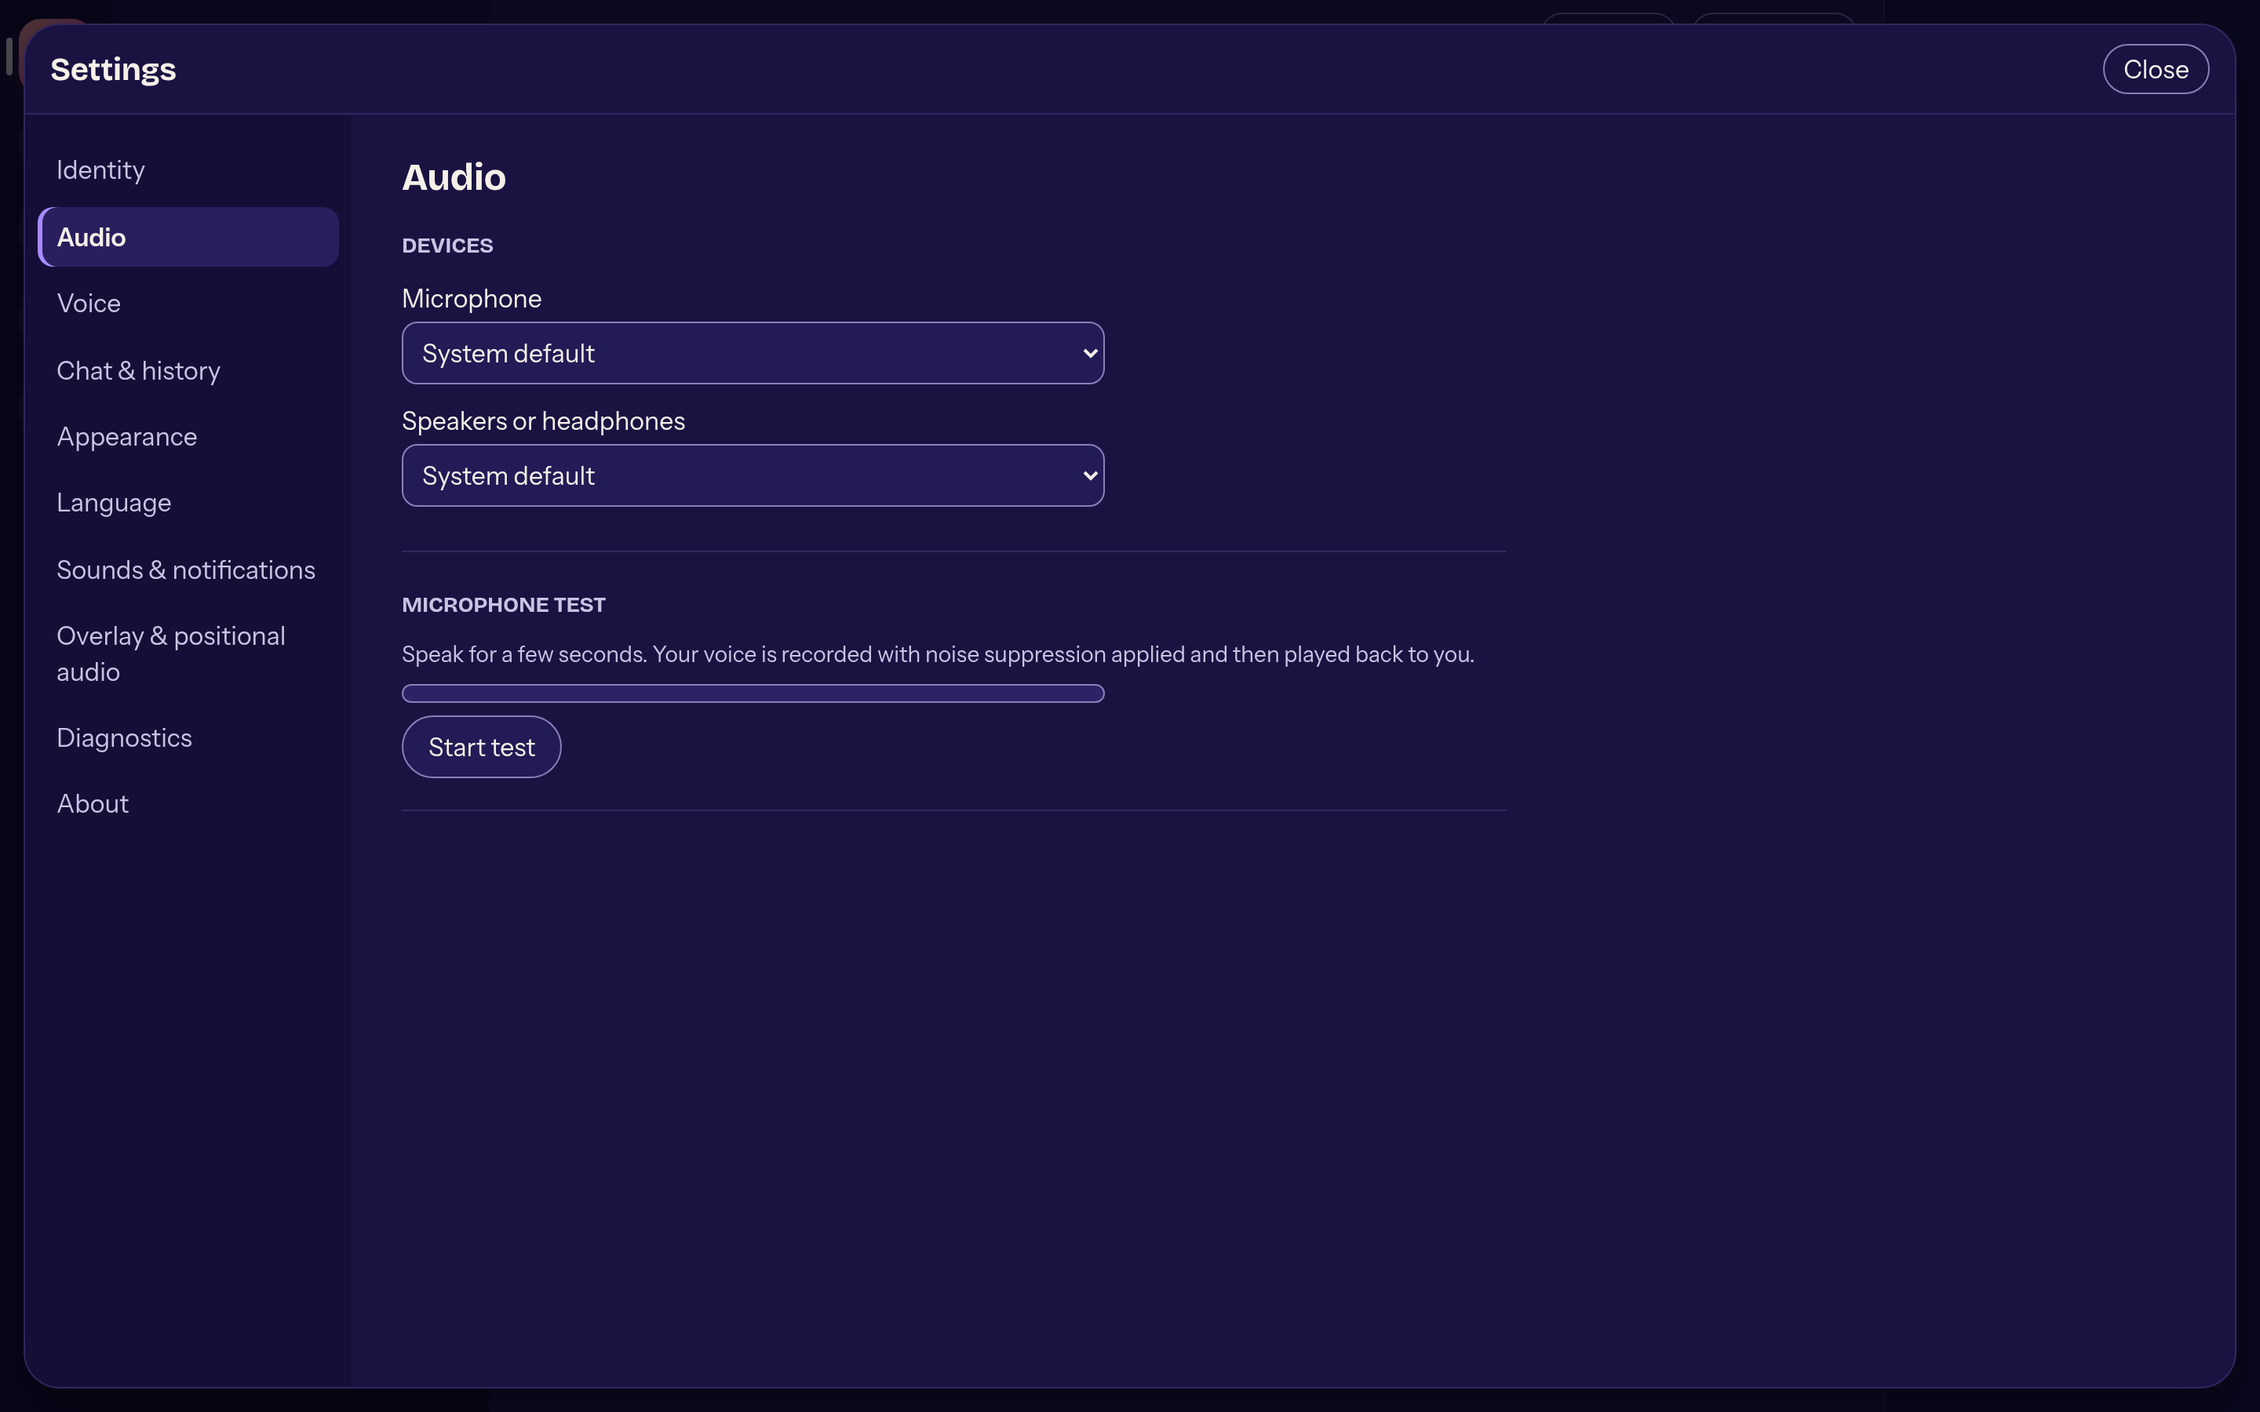
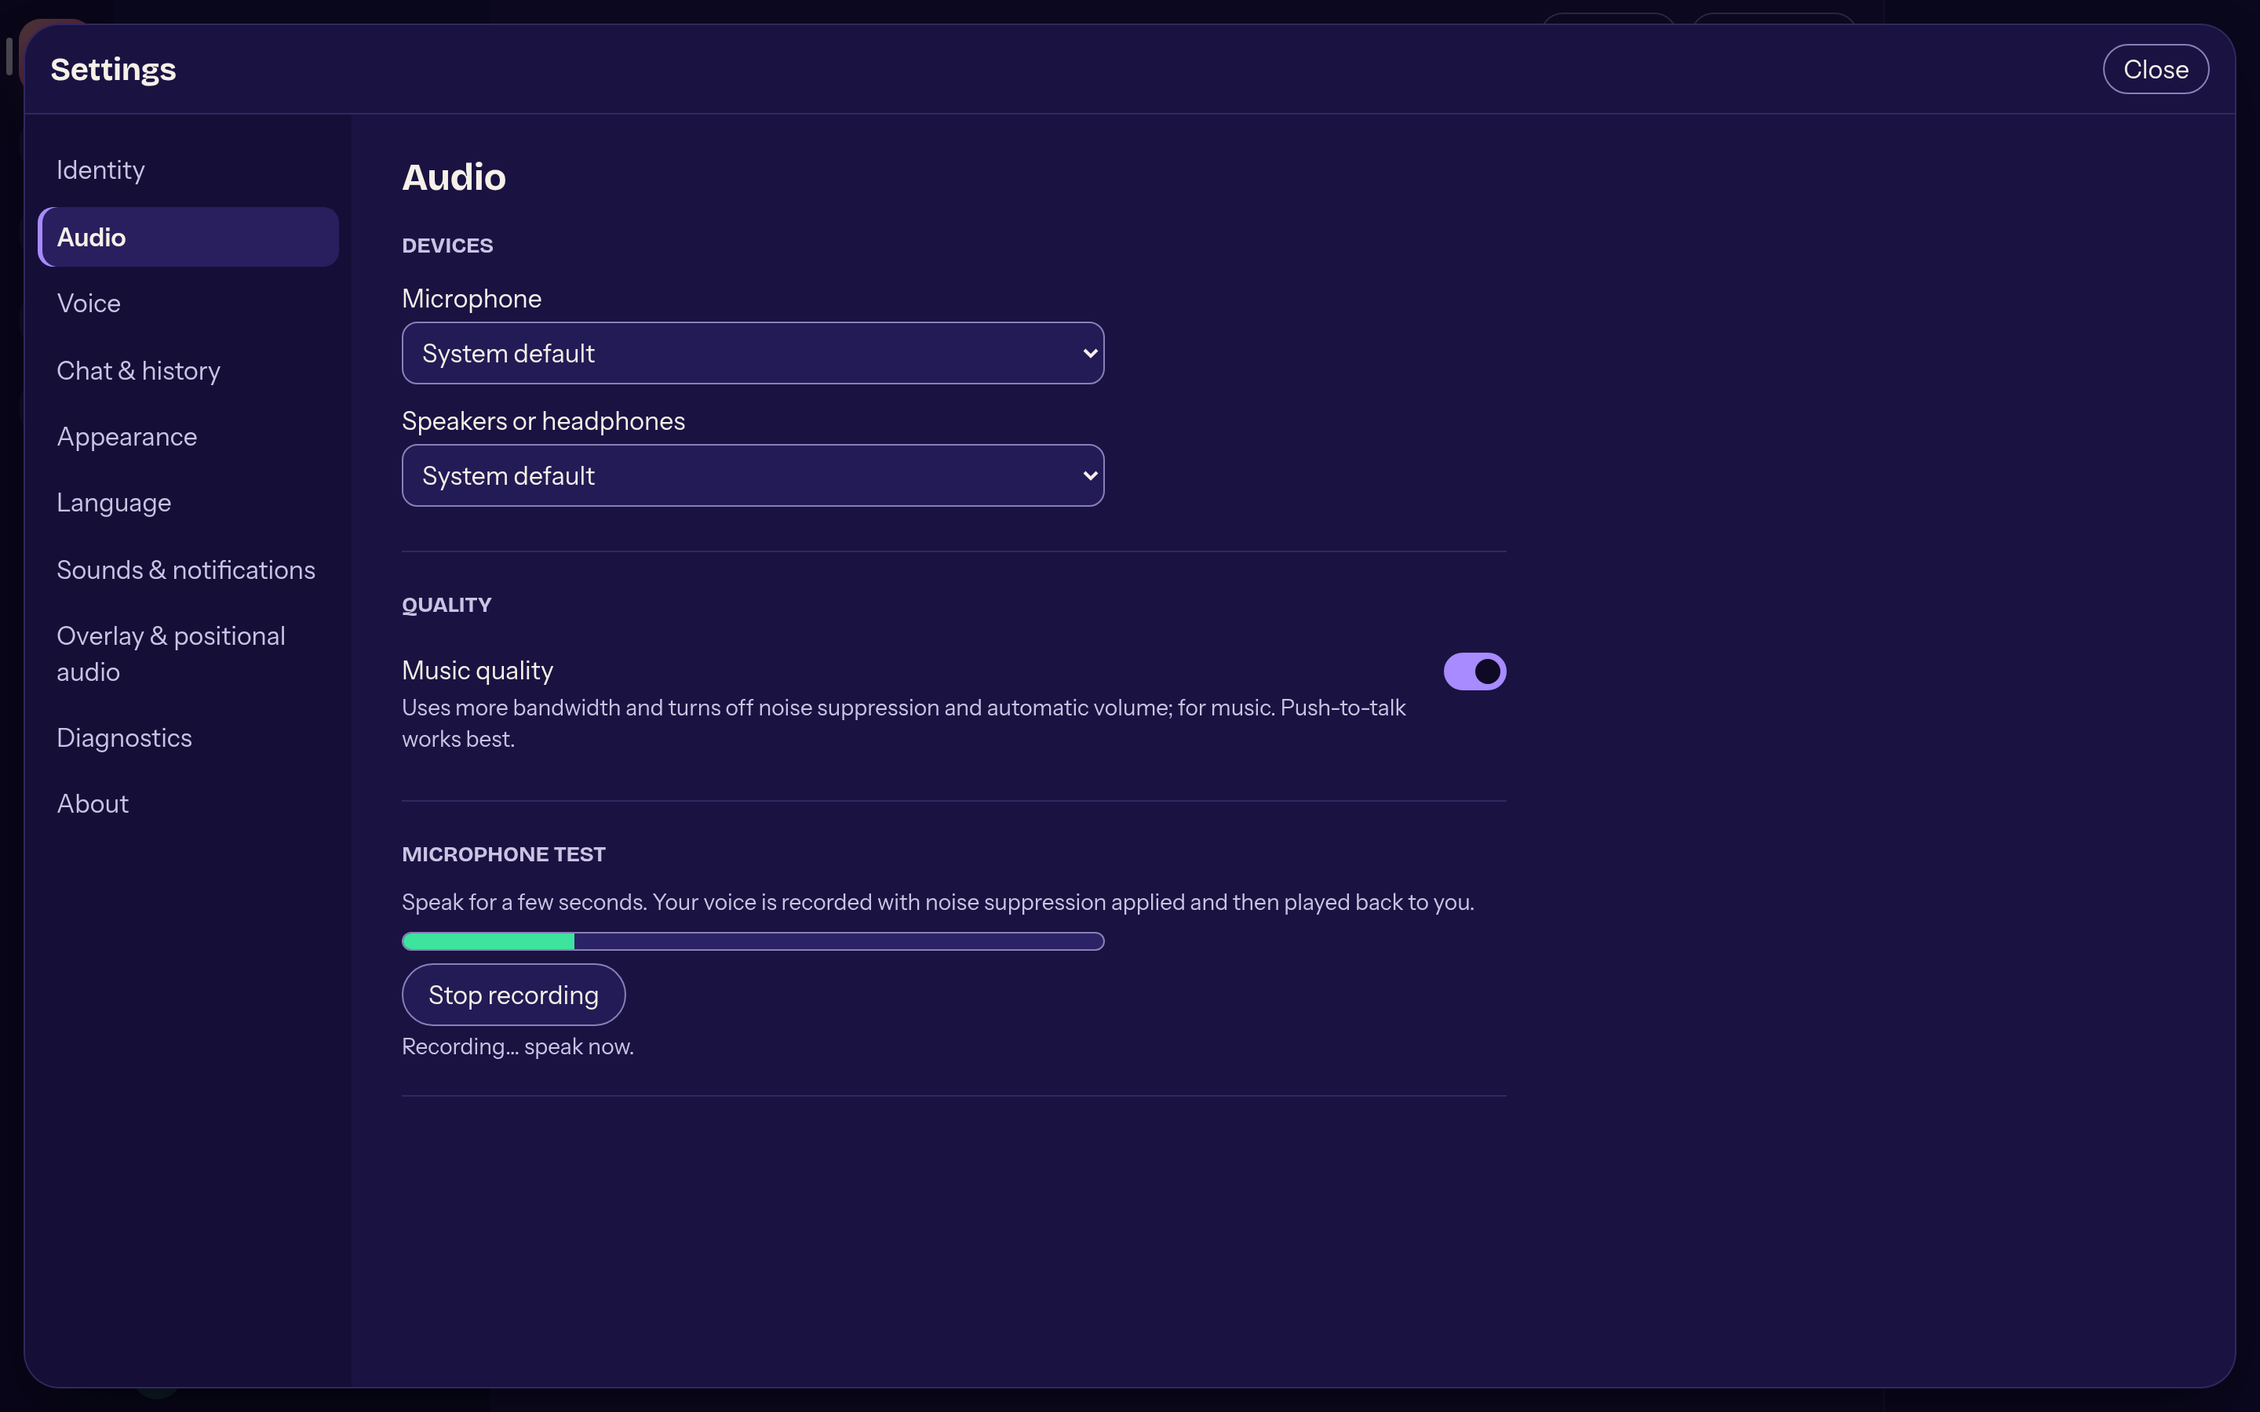
feat: screenshots for every feature on the features page

diff --git a/src/lib/features.ts b/src/lib/features.ts
@@ -118,7 +118,7 @@ export const featuresPage: Record<Lang, FeaturesPage> = {
             id: "rechtsklick",
             title: "Rechtsklick auf Leute",
             body: "Profil ansehen, nur für dich stummschalten, Lautstärke von 0 bis 200 % oder eine private Nachricht schreiben. Mumcord merkt sich das pro Person.",
-            shot: "context-menu",
+            shot: "person-menu",
             alt: "Kontextmenü einer Person mit Lautstärkeregler",
           },
         ],
@@ -143,20 +143,66 @@ export const featuresPage: Record<Lang, FeaturesPage> = {
           },
           {
             id: "vorschauen",
-            title: "Links, Videos und Bilder im Chat",
-            body: "Link-Vorschauen, Karten für YouTube, Twitch und Spotify, die erst beim Klick laden, und externe Bilder direkt in der Nachricht. Ein Klick öffnet den Bildbetrachter mit Zoom. Alles abschaltbar, nie von Adressen im lokalen Netz.",
+            title: "Link-Vorschauen",
+            body: "Links bekommen eine Karte mit Titel, Beschreibung und Bild. Mumcord lädt sie selbst, nie von Adressen im lokalen Netz; jede Karte lässt sich wegklicken, und die Funktion ist im Wizard und in den Einstellungen abschaltbar.",
+            shot: "chat-link-preview",
+            alt: "Chat mit einer Link-Vorschau",
+            since: "0.2.0",
+          },
+          {
+            id: "videos",
+            title: "YouTube und Twitch",
+            body: "Video-Links werden zu einer Karte mit Vorschaubild. Der Player lädt erst, wenn du auf Play klickst.",
+            shot: "chat-youtube",
+            alt: "Chat mit einer YouTube-Karte",
+            since: "0.2.0",
+          },
+          {
+            id: "spotify",
+            title: "Spotify",
+            body: "Auch Spotify-Links bekommen eine Karte mit Cover, Titel und Künstler, der Player kommt erst beim Klick.",
+            shot: "chat-spotify",
+            alt: "Chat mit einer Spotify-Karte",
+            since: "0.2.0",
+          },
+          {
+            id: "bilder",
+            title: "Bilder und GIFs im Chat",
+            body: "Externe Bilder und Bildlinks erscheinen direkt in der Nachricht, GIFs von Giphy und Tenor spielen ab und zeigen ihre Quelle.",
+            shot: "chat-images",
+            alt: "Chat mit einem Bild und einem GIF",
+            since: "0.2.0",
+          },
+          {
+            id: "bildbetrachter",
+            title: "Bildbetrachter",
+            body: "Ein Klick auf ein Bild öffnet es groß: zoomen mit Mausrad oder Tasten, verschieben, mit den Pfeiltasten durch alle Bilder des Chats und „Bild speichern“.",
+            shot: "image-viewer",
+            alt: "Bildbetrachter mit Zoom-Leiste",
             since: "0.2.0",
           },
           {
             id: "erwaehnungen",
-            title: "@Erwähnungen, Code und Formatierung",
-            body: "@ vervollständigt Namen, Erwähnungen werden hervorgehoben und haben einen eigenen Ton. Code-Blöcke mit Syntax-Hervorhebung, eine Formatierungsleiste und Kürzel wie Strg+B.",
+            title: "@Erwähnungen",
+            body: "Tipp @ und Mumcord schlägt Namen vor. Erwähnungen werden hervorgehoben, benachrichtigen auch in stillen Kanälen und haben einen eigenen Ton.",
+            shot: "mention-autocomplete",
+            alt: "Eingabefeld mit Namensvorschlag nach @",
+            since: "0.2.0",
+          },
+          {
+            id: "code",
+            title: "Code und Formatierung",
+            body: "Code-Blöcke mit Syntax-Hervorhebung, eine Formatierungsleiste über dem Eingabefeld und Kürzel wie Strg+B, Strg+I oder Strg+E.",
+            shot: "chat-code-toolbar",
+            alt: "Chat mit hervorgehobenem Code und Formatierungsleiste",
             since: "0.2.0",
           },
           {
             id: "gifs",
             title: "GIF-Favoriten",
-            body: "Links zu Giphy und Tenor spielen direkt ab. Per Rechtsklick als Favorit speichern und über den GIF-Knopf wieder senden.",
+            body: "Jedes GIF im Chat per Rechtsklick als Favorit speichern und über den GIF-Knopf wieder senden. Eine GIF-Suche gibt es bewusst nicht: Dafür müsste ein API-Schlüssel in die App.",
+            shot: "gif-picker",
+            alt: "Auswahl der GIF-Favoriten",
             since: "0.2.0",
           },
           {
@@ -165,6 +211,14 @@ export const featuresPage: Record<Lang, FeaturesPage> = {
             body: "Neue Nachrichten als Pop-up in der App, als Systembenachrichtigung, beides oder gar nicht. Dazu kurze, leise Töne pro Ereignis.",
             shot: "notification-toast",
             alt: "Pop-up einer neuen Nachricht in der App",
+          },
+          {
+            id: "aufraeumen",
+            title: "Räumt selbst auf",
+            body: "Vorschauen und Bilder werden nach einstellbaren Tagen gelöscht, auf Wunsch auch alte Chatverläufe. Der Verlauf liegt nur auf deinem Rechner und lässt sich pro Server abschalten.",
+            shot: "settings-04-chat-history-dark",
+            alt: "Einstellungen, Bereich Chat und Verlauf",
+            since: "0.2.0",
           },
         ],
       },
@@ -175,27 +229,39 @@ export const featuresPage: Record<Lang, FeaturesPage> = {
           {
             id: "push-to-talk",
             title: "Push-to-Talk überall",
-            body: "Tasten und Maustasten, auch wenn ein Spiel im Vordergrund läuft. Unter Wayland über das Shortcut-Portal oder im Kompatibilitätsmodus wie bei TeamSpeak. Oder Sprachaktivierung, auf Wunsch mit eigener Schwelle.",
+            body: "Tasten und Maustasten, auch wenn ein Spiel im Vordergrund läuft. Unter Wayland über das Shortcut-Portal oder im Kompatibilitätsmodus wie bei TeamSpeak.",
+            shot: "wizard-3-talk-mode",
+            alt: "Einrichtungsassistent, Schritt Sprechmodus",
+          },
+          {
+            id: "schwelle",
+            title: "Sprachaktivierung mit eigener Schwelle",
+            body: "Automatisch oder von Hand: Ein Regler über der Live-Pegelanzeige legt fest, ab wann Mumcord sendet. Eine kurze Haltezeit schneidet keine Wortenden ab.",
             shot: "settings-03-voice-dark",
-            alt: "Einstellungen, Bereich Sprache mit Push-to-Talk",
+            alt: "Einstellungen, Bereich Sprache mit manueller Schwelle",
+            since: "0.2.0",
           },
           {
             id: "klang",
             title: "Klarer Klang von Haus aus",
             body: "KI-Rauschunterdrückung, Echounterdrückung und automatische Verstärkung sind an. Geräte wechseln ohne neu zu verbinden, Mikrofontest mit der eigenen Stimme.",
-            shot: "settings-02-audio-dark",
-            alt: "Einstellungen, Bereich Audio",
+            shot: "wizard-2-microphone",
+            alt: "Einrichtungsassistent, Schritt Mikrofon mit Pegeltest",
           },
           {
             id: "musik",
             title: "Musikqualität",
-            body: "Ein Schalter hebt die Bitrate bis zum Limit des Servers, höchstens 510 kbit/s, und stimmt den Encoder auf Musik ab.",
+            body: "Ein Schalter hebt die Bitrate bis zum Limit des Servers, höchstens 510 kbit/s, stimmt den Encoder auf Musik ab und schaltet Rauschunterdrückung und automatische Lautstärke ab.",
+            shot: "settings-02-audio-dark",
+            alt: "Einstellungen, Bereich Audio mit dem Schalter Musikqualität",
             since: "0.1.1",
           },
           {
             id: "laeuft-gerade",
             title: "Läuft gerade",
             body: "Wenn du willst, sehen andere Mumcord-Nutzer, welche Musik du hörst, mit Cover und Fortschritt. Unter Linux und Windows.",
+            shot: "profile-preview",
+            alt: "Profilkarte mit „Listening to“ und Fortschrittsbalken",
             since: "0.2.0",
           },
         ],
@@ -314,7 +380,7 @@ export const featuresPage: Record<Lang, FeaturesPage> = {
             id: "right-click",
             title: "Right-click people",
             body: "See the profile, mute just for you, set the volume from 0 to 200 % or send a private message. Mumcord remembers it per person.",
-            shot: "context-menu",
+            shot: "person-menu",
             alt: "Context menu of a person with a volume slider",
           },
         ],
@@ -339,20 +405,66 @@ export const featuresPage: Record<Lang, FeaturesPage> = {
           },
           {
             id: "previews",
-            title: "Links, videos and images in the chat",
-            body: "Link previews, YouTube, Twitch and Spotify cards that load only on click, and external images right in the message. A click opens the image viewer with zoom. All of it can be switched off and never loads from local network addresses.",
+            title: "Link previews",
+            body: "Links get a card with title, description and image. Mumcord fetches them itself, never from local network addresses; every card can be dismissed, and the feature can be switched off in the wizard and in settings.",
+            shot: "chat-link-preview",
+            alt: "Chat with a link preview",
+            since: "0.2.0",
+          },
+          {
+            id: "videos",
+            title: "YouTube and Twitch",
+            body: "Video links turn into a card with a thumbnail. The player loads only when you click play.",
+            shot: "chat-youtube",
+            alt: "Chat with a YouTube card",
+            since: "0.2.0",
+          },
+          {
+            id: "spotify",
+            title: "Spotify",
+            body: "Spotify links get a card too, with cover, title and artist; the player comes only on click.",
+            shot: "chat-spotify",
+            alt: "Chat with a Spotify card",
+            since: "0.2.0",
+          },
+          {
+            id: "images",
+            title: "Images and GIFs in the chat",
+            body: "External images and image links show right in the message, Giphy and Tenor GIFs play and credit their source.",
+            shot: "chat-images",
+            alt: "Chat with an image and a GIF",
+            since: "0.2.0",
+          },
+          {
+            id: "image-viewer",
+            title: "Image viewer",
+            body: "Click an image to see it large: zoom with the wheel or keys, pan, arrow keys through all images of the chat and “Save image”.",
+            shot: "image-viewer",
+            alt: "Image viewer with zoom toolbar",
             since: "0.2.0",
           },
           {
             id: "mentions",
-            title: "@mentions, code and formatting",
-            body: "@ completes names, mentions are highlighted and have their own sound. Code blocks with syntax highlighting, a formatting toolbar and shortcuts like Ctrl+B.",
+            title: "@mentions",
+            body: "Type @ and Mumcord suggests names. Mentions are highlighted, notify you even in quiet channels and have their own sound.",
+            shot: "mention-autocomplete",
+            alt: "Message input with a name suggestion after @",
+            since: "0.2.0",
+          },
+          {
+            id: "code",
+            title: "Code and formatting",
+            body: "Code blocks with syntax highlighting, a formatting toolbar above the input and shortcuts like Ctrl+B, Ctrl+I or Ctrl+E.",
+            shot: "chat-code-toolbar",
+            alt: "Chat with highlighted code and the formatting toolbar",
             since: "0.2.0",
           },
           {
             id: "gifs",
             title: "GIF favorites",
-            body: "Giphy and Tenor links play inline. Save them as favorites by right-click and send them again from the GIF button.",
+            body: "Save any GIF in the chat as a favorite by right-click and send it again from the GIF button. There is no GIF search on purpose: it would need an API key inside the app.",
+            shot: "gif-picker",
+            alt: "GIF favorites picker",
             since: "0.2.0",
           },
           {
@@ -361,6 +473,14 @@ export const featuresPage: Record<Lang, FeaturesPage> = {
             body: "New messages as an in-app pop-up, a system notification, both or none. Plus short, quiet sounds per event.",
             shot: "notification-toast",
             alt: "In-app pop-up for a new message",
+          },
+          {
+            id: "clean-up",
+            title: "Cleans up after itself",
+            body: "Previews and images are deleted after a number of days you choose, old chat history too if you like. History lives only on your computer and can be switched off per server.",
+            shot: "settings-04-chat-history-dark",
+            alt: "Settings, chat and history section",
+            since: "0.2.0",
           },
         ],
       },
@@ -371,27 +491,39 @@ export const featuresPage: Record<Lang, FeaturesPage> = {
           {
             id: "push-to-talk",
             title: "Push-to-talk everywhere",
-            body: "Keys and mouse buttons, even with a game in the foreground. On Wayland via the shortcuts portal or in a TeamSpeak-like compatibility mode. Or voice activation, with your own threshold if you like.",
+            body: "Keys and mouse buttons, even with a game in the foreground. On Wayland via the shortcuts portal or in a TeamSpeak-like compatibility mode.",
+            shot: "wizard-3-talk-mode",
+            alt: "Setup wizard, talk mode step",
+          },
+          {
+            id: "threshold",
+            title: "Voice activation with your own threshold",
+            body: "Automatic or by hand: a slider over the live level meter sets when Mumcord starts sending. A short hold keeps word endings intact.",
             shot: "settings-03-voice-dark",
-            alt: "Settings, voice section with push-to-talk",
+            alt: "Settings, voice section with a manual threshold",
+            since: "0.2.0",
           },
           {
             id: "sound",
             title: "Clear sound out of the box",
             body: "AI noise suppression, echo cancellation and automatic gain are on. Switch devices without reconnecting, test your microphone with your own voice.",
-            shot: "settings-02-audio-dark",
-            alt: "Settings, audio section",
+            shot: "wizard-2-microphone",
+            alt: "Setup wizard, microphone step with level test",
           },
           {
             id: "music",
             title: "Music quality",
-            body: "One switch raises the bitrate up to the server's limit, at most 510 kbit/s, and tunes the encoder for music.",
+            body: "One switch raises the bitrate up to the server's limit, at most 510 kbit/s, tunes the encoder for music and turns off noise suppression and automatic gain.",
+            shot: "settings-02-audio-dark",
+            alt: "Settings, audio section with the music quality switch",
             since: "0.1.1",
           },
           {
             id: "now-playing",
             title: "Now playing",
             body: "If you like, other Mumcord users see what music you're listening to, with cover and progress. On Linux and Windows.",
+            shot: "profile-preview",
+            alt: "Profile card with “Listening to” and a progress bar",
             since: "0.2.0",
           },
         ],
